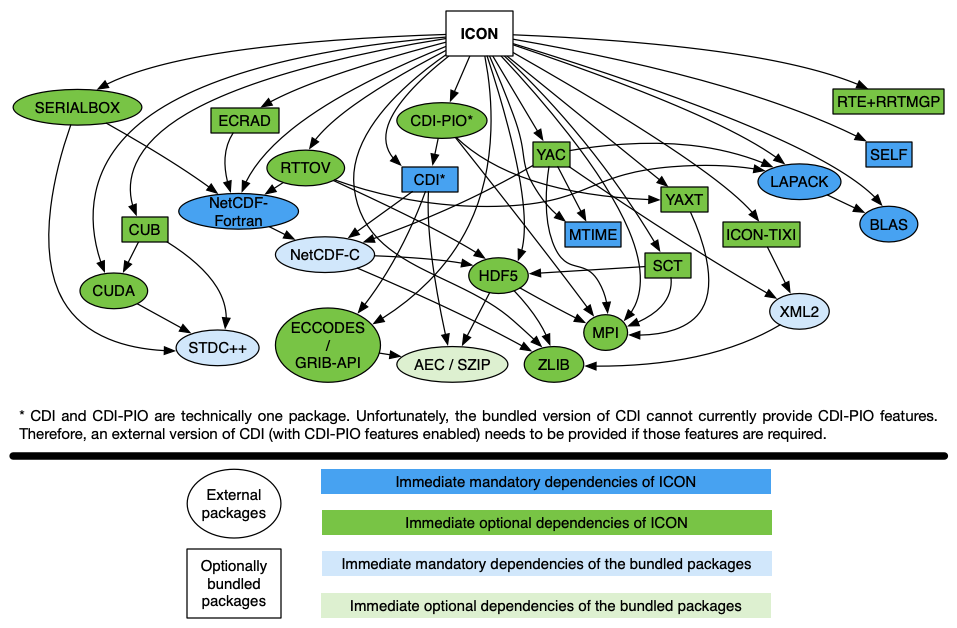
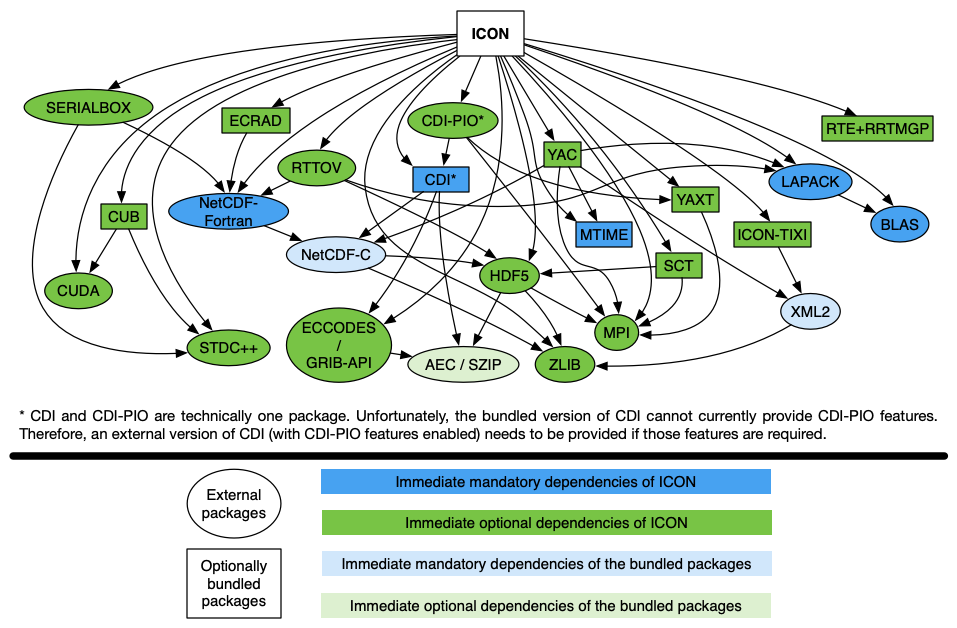
Docu building cleanup

Changed region(s): [[0.0, 0.0303, 1.0, 0.6354], [0.1818, 0.3933, 0.2121, 0.4236]]

diff --git a/README.md b/README.md
@@ -174,33 +174,32 @@ recommended (topologically sorted) order for the `LIBS` argument is presented in
 
 | Linking order | Package | Dependency condition<sup><a name="f1-back" href="#f1">1</a></sup> | Required flags<sup><a href="#f1">1</a></sup> |
 | :---: | :---: | :---: | :---: |
-|  1 | [SELF](https://gitlab.dkrz.de/libself/libself) | `--with-external-self` | `FCFLAGS='-I/path/to/libself/include' LDFLAGS='-L/path/to/libself/lib' LIBS='-lself'` |
-|  2 | [ICON-TIXI](https://gitlab.dkrz.de/icon-libraries/libtixi) (a modified version of [TIXI](https://github.com/DLR-SC/tixi)) | `--enable-art --with-external-tixi` | `FCFLAGS='-I/path/to/tixi/include' LDFLAGS='-L/path/to/tixi/lib' LIBS='-licon_tixi'` |
-|  3 | [YAC](https://doc.redmine.dkrz.de/YAC/html/) | `--enable-coupling --with-external-yac` | `FCFLAGS='-I/path/to/yac/include' LDFLAGS='-L/path/to/yac/lib' LIBS='-lyac'` |
-|  4 | [XML2](http://www.xmlsoft.org/) | `--enable-coupling`<sup><a name="f2-back" href="#f2">2</a></sup> or `--enable-art`<sup><a name="f2-back" href="#f2">2</a></sup>| `CPPFLAGS='-I/path/to/libxml2/include/libxml2' LDFLAGS='-L/path/to/libxml2/lib' LIBS='-lxml2'` |
-|  5 | [MTIME](https://gitlab.dkrz.de/icon-libraries/libmtime) | `--with-external-mtime`<sup><a name="f3-back" href="#f3">3</a></sup> | `FCFLAGS='-I/path/to/mtime/include' CPPFLAGS='-I/path/to/mtime/include' LDFLAGS='-L/path/to/mtime/lib' LIBS='-lmtime'` |
-|  6 | [SERIALBOX](https://github.com/GridTools/serialbox) | `--enable-serialization` | `FCFLAGS='-I/path/to/serialbox2/include' LDFLAGS='-L/path/to/serialbox2/lib' LIBS='-lSerialboxFortran'` |
-|  7 | [CDI](https://code.mpimet.mpg.de/projects/cdi/) or CDI-PIO | `--with-external-cdi`<sup><a name="f4-back" href="#f4">4</a></sup> | `FCFLAGS='-I/path/to/libcdi/include' LDFLAGS='-L/path/to/libcdi/lib' LIBS='-lcdi_f2003 -lcdi'` (or `LIBS='-lcdi_f2003 -lcdipio -lcdi'`) |
-|  8 | [ECCODES](https://confluence.ecmwf.int/display/ECC) or [GRIB-API](https://confluence.ecmwf.int/display/GRIB/Home) (Fortran interface) | `--enable-emvorado` | `FCFLAGS='-I/path/to/eccodes/include' LDFLAGS='-L/path/to/eccodes/lib' LIBS='-leccodes_f90'` (or `LIBS='-lgrib_api_f90'`) |
-|  9 | [ECCODES](https://confluence.ecmwf.int/display/ECC) or [GRIB-API](https://confluence.ecmwf.int/display/GRIB/Home) (C interface) | `--enable-grib2 --without-external-cdi`<sup><a name="f5-back" href="#f5">5</a></sup> | `CPPFLAGS='-I/path/to/eccodes/include' LDFLAGS='-L/path/to/eccodes/lib' LIBS='-leccodes'` (or `LIBS='-lgrib_api'`) |
-| 10 | [YAXT](https://gitlab.dkrz.de/dkrz-sw/yaxt) | `--enable-yaxt --with-external-yaxt` or `--enable-cdi-pio --with-external-yaxt`<sup><a name="f6-back" href="#f6">6</a></sup> | `FCFLAGS='-I/path/to/yaxt/include' LDFLAGS='-L/path/to/yaxt/lib' LIBS='-lyaxt'` |
-| 11 | [SCT](https://gitlab.dkrz.de/dkrz-sw/sct) | `--enable-sct --with-external-sct` | `FCFLAGS='-I/path/to/sct/include' LDFLAGS='-L/path/to/sct/lib' LIBS='-lsct'` |
-| 12 | RTTOV (a modified version of [RTTOV](https://www.nwpsaf.eu/site/software/rttov/)) | `--enable-rttov` | `FCFLAGS='-I/path/to/rttov/include' LDFLAGS='-L/path/to/rttov/lib' LIBS='-lradiance -lrttov10.2'` |
-| 13 | [LAPACK](http://www.netlib.org/lapack/) (or analogue) | mandatory | `LDFLAGS='-L/path/to/lapack/lib' LIBS='-llapack'` (depends on the implementation) |
-| 14 | [BLAS](http://www.netlib.org/blas/) (or analogue) | mandatory | `LDFLAGS='-L/path/to/blas/lib' LIBS='-lblas'` (depends on the implementation) |
-| 15 | [ECRAD](https://confluence.ecmwf.int/display/ECRAD/ECMWF+Radiation+Scheme+Home) | `--enable-ecrad --with-external-ecrad` | `FCFLAGS='-I/path/to/ecrad/include' LDFLAGS='-L/path/to/ecrad/lib' LIBS='-lradiation -lifsrrtm -lutilities -lifsaux'` |
-| 16 | [RTE+RRTMGP](https://github.com/earth-system-radiation/rte-rrtmgp) | `--enable-rte-rrtmgp --with-external-rte-rrtmgp` | `FCFLAGS='-I/path/to/rte-rrtmgp/include' LDFLAGS='-L/path/to/rte-rrtmgp/lib' LIBS='-lrrtmgp -lrte'` |
-| 17 | [NetCDF-Fortran](https://www.unidata.ucar.edu/software/netcdf/docs-fortran/) | mandatory | `FCFLAGS='-I/path/to/netcdf-fortran/include' LDFLAGS='-L/path/to/netcdf-fortran/lib' LIBS='-lnetcdff'` |
-| 18 | [NetCDF-C](https://www.unidata.ucar.edu/software/netcdf/docs/) | `--without-external-cdi` or `--enable-coupling`<sup><a name="f7-back" href="#f7">7</a></sup> | `CPPFLAGS='-I/path/to/netcdf/include' LDFLAGS='-L/path/to/netcdf/lib' LIBS='-lnetcdf'` |
-| 19 | [HDF5](https://support.hdfgroup.org/HDF5/) (low- and high-level Fortran interfaces) | `--enable-emvorado` or `--enable-rttov`<sup><a name="f8-back" href="#f8">8</a></sup> | `FCFLAGS='-I/path/to/hdf5/include' LDFLAGS='-L/path/to/hdf5/lib' LIBS='-lhdf5_hl_fortran -lhdf5_fortran'` |
-| 20 | [HDF5](https://support.hdfgroup.org/HDF5/) (low-level C interface) | `--enable-sct --without-external-sct` | `CPPFLAGS='-I/path/to/hdf5/include' LDFLAGS='-L/path/to/hdf5/lib' LIBS='-lhdf5'` |
-| 21 | [ZLIB](https://zlib.net/) | `--enable-emvorado` | `LDFLAGS='-L/path/to/zlib/lib' LIBS='-lz'` |
-| 22 | [AEC](https://gitlab.dkrz.de/k202009/libaec) or [SZIP](https://support.hdfgroup.org/doc_resource/SZIP/) | static linking | `LDFLAGS='-L/path/to/aec/lib' LIBS='-laec'` (or `LIBS='-lsz'`) |
-| 23 | [MPI](https://www.mpi-forum.org/) (Fortran interface) | `--enable-mpi` or `--enable-yaxt --without-external-yaxt` or `--enable-coupling --without-external-yac` | `FC='/path/to/mpi/bin/mpif90'` or `FCFLAGS='-I/path/to/mpi/include' LDFLAGS='-L/path/to/mpi/lib' LIBS='-lmpifort -lmpi'` (depends on the implementation) |
-| 24 | [MPI](https://www.mpi-forum.org/) (C interface) | `--enable-mpi --enable-coupling --without-external-yac` or `--enable-yaxt --without-external-yaxt` or `--enable-mpi --enable-sct --without-external-sct` | `CC=/path/to/mpi/bin/mpicc` or `CPPFLAGS=-I/path/to/mpi/include LDFLAGS='-L/path/to/mpi/lib' LIBS='-lmpi'` (depends on the implementation) |
-| 25 | [CUB](https://nvlabs.github.io/cub/) | `--enable-gpu --with-external-cub` | `NVCFLAGS=-I/path/to/cub`<sup><a name="f9-back" href="#f9">9</a></sup> |
-| 26 | [CUDA](https://developer.nvidia.com/cuda-zone) | `--enable-gpu` | `LDFLAGS=-L/path/to/cuda/lib LIBS=-lcudart`<sup><a name="f10-back" href="#f10">10</a></sup> |
-| 27 | [STDC++](https://gcc.gnu.org/onlinedocs/libstdc++/) | `--enable-gpu` | `LDFLAGS=-L/path/to/gcc/used/by/nvcc/lib LIBS=-lstdc++` |
+|  1 | [ICON-TIXI](https://gitlab.dkrz.de/icon-libraries/libtixi) (a modified version of [TIXI](https://github.com/DLR-SC/tixi)) | `--enable-art --with-external-tixi` | `FCFLAGS='-I/path/to/tixi/include' LDFLAGS='-L/path/to/tixi/lib' LIBS='-licon_tixi'` |
+|  2 | [YAC](https://doc.redmine.dkrz.de/YAC/html/) | `--enable-coupling --with-external-yac` | `FCFLAGS='-I/path/to/yac/include' LDFLAGS='-L/path/to/yac/lib' LIBS='-lyac'` |
+|  3 | [XML2](http://www.xmlsoft.org/) | `--enable-coupling`<sup><a name="f2-back" href="#f2">2</a></sup> or `--enable-art`<sup><a name="f2-back" href="#f2">2</a></sup>| `CPPFLAGS='-I/path/to/libxml2/include/libxml2' LDFLAGS='-L/path/to/libxml2/lib' LIBS='-lxml2'` |
+|  4 | [MTIME](https://gitlab.dkrz.de/icon-libraries/libmtime) | `--with-external-mtime`<sup><a name="f3-back" href="#f3">3</a></sup> | `FCFLAGS='-I/path/to/mtime/include' CPPFLAGS='-I/path/to/mtime/include' LDFLAGS='-L/path/to/mtime/lib' LIBS='-lmtime'` |
+|  5 | [SERIALBOX](https://github.com/GridTools/serialbox) | `--enable-serialization` | `FCFLAGS='-I/path/to/serialbox2/include' LDFLAGS='-L/path/to/serialbox2/lib' LIBS='-lSerialboxFortran'` |
+|  6 | [CDI](https://code.mpimet.mpg.de/projects/cdi/) or CDI-PIO | `--with-external-cdi`<sup><a name="f4-back" href="#f4">4</a></sup> | `FCFLAGS='-I/path/to/libcdi/include' LDFLAGS='-L/path/to/libcdi/lib' LIBS='-lcdi_f2003 -lcdi'` (or `LIBS='-lcdi_f2003 -lcdipio -lcdi'`) |
+|  7 | [ECCODES](https://confluence.ecmwf.int/display/ECC) or [GRIB-API](https://confluence.ecmwf.int/display/GRIB/Home) (Fortran interface) | `--enable-emvorado` | `FCFLAGS='-I/path/to/eccodes/include' LDFLAGS='-L/path/to/eccodes/lib' LIBS='-leccodes_f90'` (or `LIBS='-lgrib_api_f90'`) |
+|  8 | [ECCODES](https://confluence.ecmwf.int/display/ECC) or [GRIB-API](https://confluence.ecmwf.int/display/GRIB/Home) (C interface) | `--enable-grib2 --without-external-cdi`<sup><a name="f5-back" href="#f5">5</a></sup> | `CPPFLAGS='-I/path/to/eccodes/include' LDFLAGS='-L/path/to/eccodes/lib' LIBS='-leccodes'` (or `LIBS='-lgrib_api'`) |
+|  9 | [YAXT](https://gitlab.dkrz.de/dkrz-sw/yaxt) | `--enable-yaxt --with-external-yaxt` or `--enable-cdi-pio --with-external-yaxt`<sup><a name="f6-back" href="#f6">6</a></sup> | `FCFLAGS='-I/path/to/yaxt/include' LDFLAGS='-L/path/to/yaxt/lib' LIBS='-lyaxt'` |
+| 10 | [SCT](https://gitlab.dkrz.de/dkrz-sw/sct) | `--enable-sct --with-external-sct` | `FCFLAGS='-I/path/to/sct/include' LDFLAGS='-L/path/to/sct/lib' LIBS='-lsct'` |
+| 11 | RTTOV (a modified version of [RTTOV](https://www.nwpsaf.eu/site/software/rttov/)) | `--enable-rttov` | `FCFLAGS='-I/path/to/rttov/include' LDFLAGS='-L/path/to/rttov/lib' LIBS='-lradiance -lrttov10.2'` |
+| 12 | [LAPACK](http://www.netlib.org/lapack/) (or analogue) | mandatory | `LDFLAGS='-L/path/to/lapack/lib' LIBS='-llapack'` (depends on the implementation) |
+| 13 | [BLAS](http://www.netlib.org/blas/) (or analogue) | mandatory | `LDFLAGS='-L/path/to/blas/lib' LIBS='-lblas'` (depends on the implementation) |
+| 14 | [ECRAD](https://confluence.ecmwf.int/display/ECRAD/ECMWF+Radiation+Scheme+Home) | `--enable-ecrad --with-external-ecrad` | `FCFLAGS='-I/path/to/ecrad/include' LDFLAGS='-L/path/to/ecrad/lib' LIBS='-lradiation -lifsrrtm -lutilities -lifsaux'` |
+| 15 | [RTE+RRTMGP](https://github.com/earth-system-radiation/rte-rrtmgp) | `--enable-rte-rrtmgp --with-external-rte-rrtmgp` | `FCFLAGS='-I/path/to/rte-rrtmgp/include' LDFLAGS='-L/path/to/rte-rrtmgp/lib' LIBS='-lrrtmgp -lrte'` |
+| 16 | [NetCDF-Fortran](https://www.unidata.ucar.edu/software/netcdf/docs-fortran/) | mandatory | `FCFLAGS='-I/path/to/netcdf-fortran/include' LDFLAGS='-L/path/to/netcdf-fortran/lib' LIBS='-lnetcdff'` |
+| 17 | [NetCDF-C](https://www.unidata.ucar.edu/software/netcdf/docs/) | `--without-external-cdi` or `--enable-coupling`<sup><a name="f7-back" href="#f7">7</a></sup> | `CPPFLAGS='-I/path/to/netcdf/include' LDFLAGS='-L/path/to/netcdf/lib' LIBS='-lnetcdf'` |
+| 18 | [HDF5](https://support.hdfgroup.org/HDF5/) (low- and high-level Fortran interfaces) | `--enable-emvorado` or `--enable-rttov`<sup><a name="f8-back" href="#f8">8</a></sup> | `FCFLAGS='-I/path/to/hdf5/include' LDFLAGS='-L/path/to/hdf5/lib' LIBS='-lhdf5_hl_fortran -lhdf5_fortran'` |
+| 19 | [HDF5](https://support.hdfgroup.org/HDF5/) (low-level C interface) | `--enable-sct --without-external-sct` | `CPPFLAGS='-I/path/to/hdf5/include' LDFLAGS='-L/path/to/hdf5/lib' LIBS='-lhdf5'` |
+| 20 | [ZLIB](https://zlib.net/) | `--enable-emvorado` | `LDFLAGS='-L/path/to/zlib/lib' LIBS='-lz'` |
+| 21 | [AEC](https://gitlab.dkrz.de/k202009/libaec) or [SZIP](https://support.hdfgroup.org/doc_resource/SZIP/) | static linking | `LDFLAGS='-L/path/to/aec/lib' LIBS='-laec'` (or `LIBS='-lsz'`) |
+| 22 | [MPI](https://www.mpi-forum.org/) (Fortran interface) | `--enable-mpi` or `--enable-yaxt --without-external-yaxt` or `--enable-coupling --without-external-yac` | `FC='/path/to/mpi/bin/mpif90'` or `FCFLAGS='-I/path/to/mpi/include' LDFLAGS='-L/path/to/mpi/lib' LIBS='-lmpifort -lmpi'` (depends on the implementation) |
+| 23 | [MPI](https://www.mpi-forum.org/) (C interface) | `--enable-mpi --enable-coupling --without-external-yac` or `--enable-yaxt --without-external-yaxt` or `--enable-mpi --enable-sct --without-external-sct` | `CC=/path/to/mpi/bin/mpicc` or `CPPFLAGS=-I/path/to/mpi/include LDFLAGS='-L/path/to/mpi/lib' LIBS='-lmpi'` (depends on the implementation) |
+| 24 | [CUB](https://nvlabs.github.io/cub/) | `--enable-gpu --with-external-cub` | `NVCFLAGS=-I/path/to/cub`<sup><a name="f9-back" href="#f9">9</a></sup> |
+| 25 | [CUDA](https://developer.nvidia.com/cuda-zone) | `--enable-gpu` | `LDFLAGS=-L/path/to/cuda/lib LIBS=-lcudart`<sup><a name="f10-back" href="#f10">10</a></sup> |
+| 26 | [STDC++](https://gcc.gnu.org/onlinedocs/libstdc++/) | `--enable-gpu` | `LDFLAGS=-L/path/to/gcc/used/by/nvcc/lib LIBS=-lstdc++` |
 
 1. <a name="f1"/> The dependency conditions and required flags are specified
 assuming that the shared versions of the libraries containing `RPATH` entries
